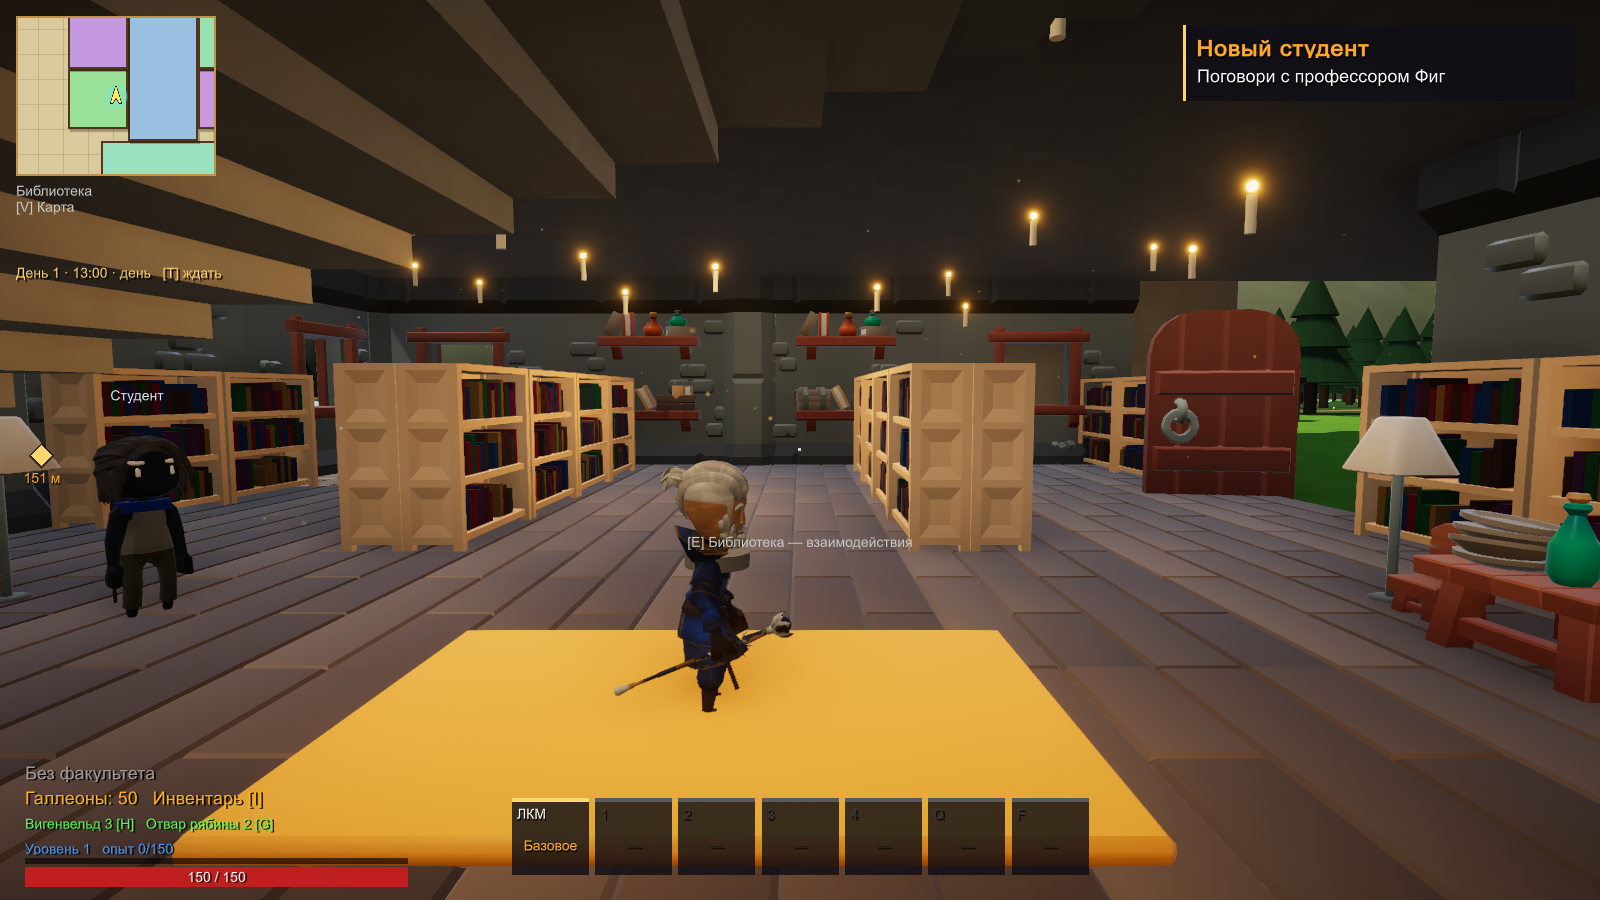
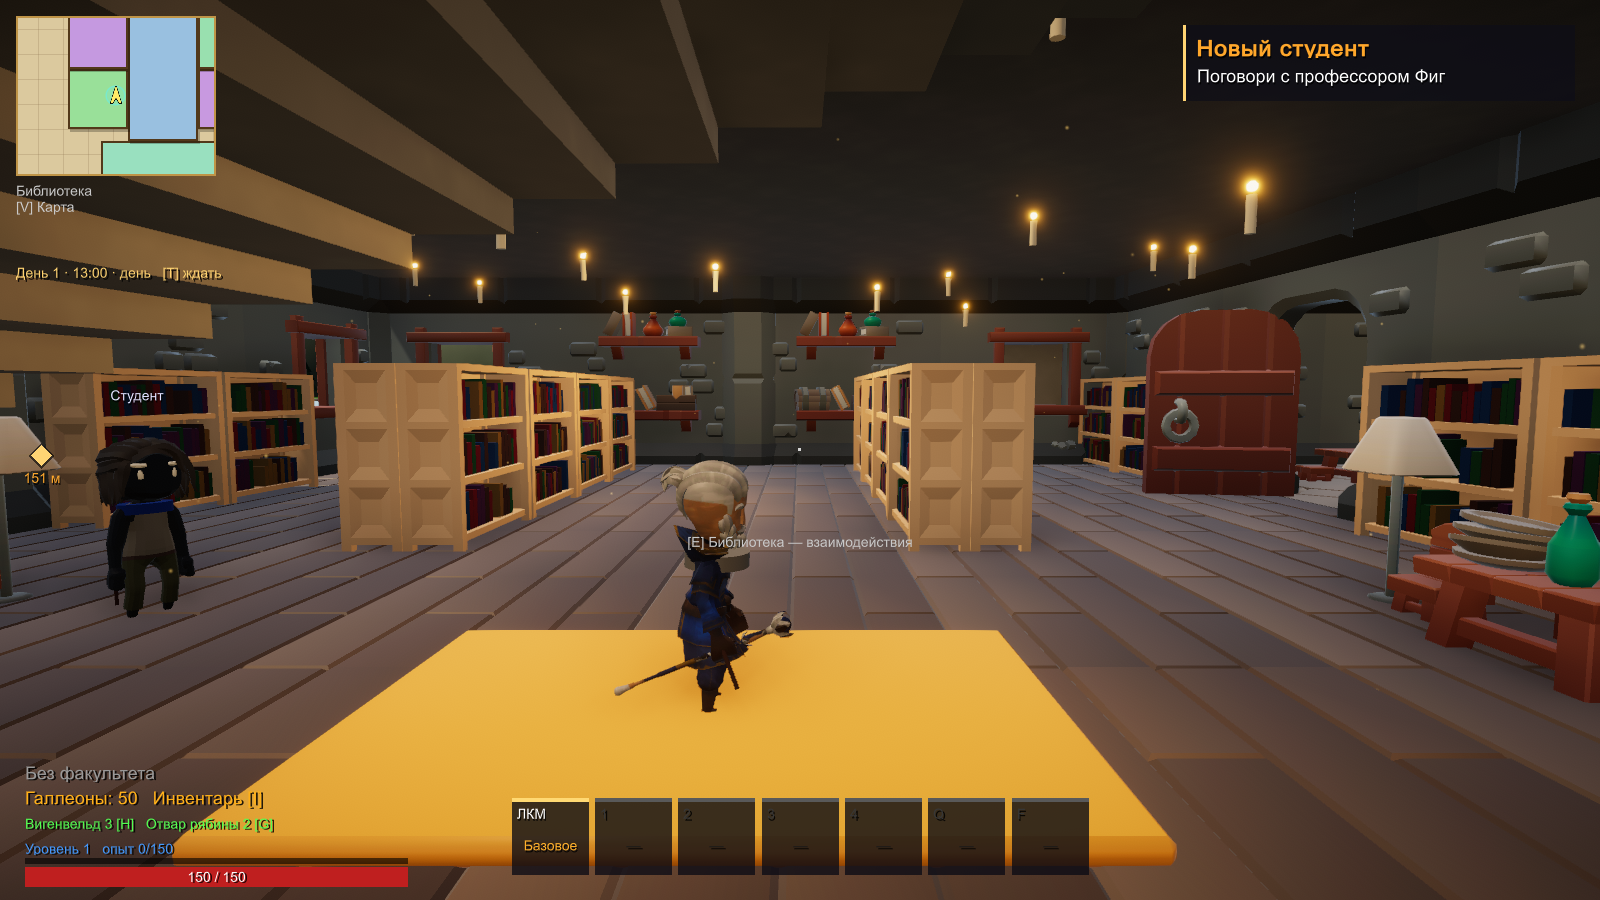
Keep Hogwarts rooms visible immediately on entry and camera turns

diff --git a/Assets/Scripts/World/CastleInteriorVisibility.cs b/Assets/Scripts/World/CastleInteriorVisibility.cs
@@ -1,40 +1,26 @@
 using System.Collections.Generic;
 using UnityEngine;
 
-// Мелкая мебель за стенами соседних комнат не участвует в рендеринге Большого зала.
+// Однократная настройка теней. Видимость комнат не зависит от положения камеры.
 public class CastleInteriorVisibility : MonoBehaviour
 {
     readonly List<Renderer> decorations = new();
-    float next;
     public int ActiveDecorations { get; private set; }
     void Start()
     {
-        var kit = GameObject.Find("CastleKit").transform;
+        var kitObject = GameObject.Find("CastleKit");
+        var kit = kitObject != null ? kitObject.transform : null;
         foreach (var renderer in FindObjectsByType<MeshRenderer>(FindObjectsSortMode.None))
         {
             var b = renderer.bounds;
-            if (!renderer.transform.IsChildOf(WorldBuilder.Root) && !renderer.transform.IsChildOf(kit)) continue;
+            if (!renderer.transform.IsChildOf(WorldBuilder.Root) && (kit == null || !renderer.transform.IsChildOf(kit))) continue;
             if (Mathf.Abs(b.center.x) > 42 || b.center.z < 29 || b.center.z > 105 || b.center.y > 13) continue;
             if (b.size.x > 8 || b.size.z > 8 || b.size.y > 6) continue;
             decorations.Add(renderer);
+            renderer.enabled = true;
             renderer.shadowCastingMode = UnityEngine.Rendering.ShadowCastingMode.Off;
         }
-    }
-    static int Room(Vector3 p) => p.x < -14 ? (p.z < 54 ? 1 : 2) : p.x > 14 ? (p.z < 54 ? 3 : 4) : p.z > 85 ? 5 : 0;
-    void LateUpdate()
-    {
-        if (Time.unscaledTime < next || Camera.main == null) return;
-        next = Time.unscaledTime + 0.15f;
-        var cam = Camera.main.transform.position;
-        int room = Room(cam); ActiveDecorations = 0;
-        foreach (var renderer in decorations)
-        {
-            if (renderer == null) continue;
-            var at = renderer.bounds.center;
-            bool show = (Room(at) == room && Mathf.Abs(at.y - cam.y) < 12) || (at - cam).sqrMagnitude < 18 * 18;
-            renderer.enabled = show;
-            if (show) ActiveDecorations++;
-        }
+        ActiveDecorations = decorations.Count;
     }
     void OnDisable() { foreach (var renderer in decorations) if (renderer != null) renderer.enabled = true; }
 }

diff --git a/Assets/Scripts/Debug/SmokeTest.RoomsVisible.cs b/Assets/Scripts/Debug/SmokeTest.RoomsVisible.cs
@@ -1,0 +1,40 @@
+using System.Collections;
+using System.Collections.Generic;
+using UnityEngine;
+
+public partial class SmokeTest
+{
+    IEnumerator RoomsVisibleTest()
+    {
+        SaveGame.TestPath = System.IO.Path.Combine(Application.dataPath, "../Build/Verification/rooms-visible-save.json");
+        GameState.Set(GameMode.Play);
+        DayNight.I.SetHour(13f); DayNight.I.raining = false;
+        var renderers = new List<MeshRenderer>();
+        renderers.AddRange(WorldBuilder.Root.GetComponentsInChildren<MeshRenderer>());
+        renderers.AddRange(GameObject.Find("CastleKit").GetComponentsInChildren<MeshRenderer>());
+        CheckLocation(renderers.Count > 100, "Static castle renderers collected");
+        foreach (var room in CastleLocations.All)
+        {
+            p.Teleport(room.spawn);
+            gm.camRig.SnapBehind();
+            // Проверяем уже первый отрисованный кадр, не ожидая таймера прорисовки.
+            for (int angle = 0; angle < 8; angle++)
+            {
+                gm.camRig.yaw = angle * 45f;
+                yield return new WaitForEndOfFrame();
+                int missing = 0;
+                foreach (var renderer in renderers) if (renderer != null && !renderer.enabled) missing++;
+                CheckLocation(missing == 0, $"Visible on entry/turn: {room.name}, angle={angle * 45}, hidden={missing}");
+            }
+        }
+        yield return HallWalkTest();
+        foreach (var room in CastleLocations.All)
+        {
+            if (room.name != "Библиотека" && room.name != "Гостиная" && room.name != "Кухня") continue;
+            Place(room.spawn, room.spawn + new Vector3(8, 1.5f, 8));
+            HUD.Clear();
+            yield return Shot("visible-room-" + CastleLocations.All.IndexOf(room));
+        }
+        Debug.Log("HM_ROOMS_RENDERERS " + renderers.Count);
+    }
+}

diff --git a/Assets/Scripts/Debug/SmokeTest.cs b/Assets/Scripts/Debug/SmokeTest.cs
@@ -88,6 +88,14 @@ public partial class SmokeTest : MonoBehaviour
         yield return Frames(30);
         yield return Shot("01_title");
         HUD.I.StartGame();
+        if (Array.IndexOf(Environment.GetCommandLineArgs(), "-hmRoomsVisible") >= 0)
+        {
+            yield return RoomsVisibleTest();
+            foreach (var note in notes) Debug.Log("HM_SMOKE_NOTE " + note);
+            Debug.Log($"HM_ROOMS_VISIBLE_RESULT errors={errors} rooms={CastleLocations.All.Count} angles=8");
+            Application.Quit(errors == 0 ? 0 : 1);
+            yield break;
+        }
         if (Array.IndexOf(Environment.GetCommandLineArgs(), "-hmBossPortraits") >= 0)
         {
             yield return BossPortraits();

diff --git a/README.md b/README.md
@@ -477,11 +477,19 @@ BuildGame.bat "D:\Unity\6000.0.77f1\Editor\Unity.exe"
 
 ### Большой зал и проходы в комнаты
 
-Камера плавно отдаляется после выхода из проёма; тонкие декоративные поверхности не мешают обзору. Под комнатами сделаны сплошные коллайдеры пола, декоративные тайлы подняты над землёй. Мелкая обстановка соседних комнат скрывается за пределами ближней зоны, у внутреннего освещения снижена стоимость, у свечей убраны лишние коллайдеры.
+Камера плавно отдаляется после выхода из проёма; тонкие декоративные поверхности не мешают обзору. Под комнатами сделаны сплошные коллайдеры пола, декоративные тайлы подняты над землёй. Обстановка всех комнат остаётся включённой постоянно: вход и поворот камеры не запускают отложенную прорисовку. У внутреннего освещения снижена стоимость, у свечей убраны лишние коллайдеры; тени мелкого декора отключаются один раз при запуске.
 
 | Большой зал | Вход в библиотеку |
 | --- | --- |
 | ![Большой зал после оптимизации](docs/screenshots/great-hall-current.png) | ![Проход в библиотеку](docs/screenshots/library-doorway-current.png) |
+
+Проверка видимости: во всех 22 зонах обстановка остаётся включённой на первом кадре входа и при восьми поворотах камеры. В этом прогоне Большой зал показал 56,4 FPS при 1600×900 на тестовом компьютере.
+
+| Библиотека без исчезающей обстановки | Гостиная |
+| --- | --- |
+| ![Видимая обстановка библиотеки](docs/screenshots/room-visible-library.png) | ![Видимая обстановка гостиной](docs/screenshots/room-visible-common.png) |
+
+[Кухня после исправления видимости](docs/screenshots/room-visible-kitchen.png)
 ### Окрестности
 
 В окрестностях есть:

diff --git a/docs/verification.md b/docs/verification.md
@@ -106,3 +106,16 @@ HM_MAPS_RESULT errors=0 views=10
 Сняты восемь отдельных кадров четырёх боссов: обычный облик крупным планом и фазовый щит. Все восемь изображений просмотрены. README использует новые файлы `chapter-*-boss-portrait.png`; старые файлы `chapter-*-boss.png` также заменены, чтобы прежние ссылки показывали свежие кадры. К каждому портрету добавлена ссылка на щит.
 
 Результат захвата: `HM_BOSS_PORTRAITS_RESULT errors=0 bosses=4 views=8`. Это проверка захвата кадров, а не повторное прохождение кампании.
+
+## Исправление исчезающей обстановки — 16 октября 2026
+
+Причина: `CastleInteriorVisibility` отключал мелкие статические объекты по условному номеру комнаты камеры и радиусу 18 м, обновляя состояние каждые 0,15 с. Удалены проверка комнаты, радиус, таймер и весь покадровый переключатель `Renderer.enabled`. Обстановка всегда включена; настройка теней остаётся однократной.
+
+Новый прогон `-hmSmoke -hmRoomsVisible` проверил 6254 статических объекта на первом кадре после входа и при восьми направлениях камеры во всех 22 зонах. Отключённых объектов не найдено. Повторно проверены четыре прохода Большого зала: перепад 0,082 м, шаг камеры до 0,076 м. Большой зал: 56,4 FPS, 1600×900 на тестовом компьютере. Библиотека, гостиная и кухня просмотрены на скриншотах.
+
+```text
+HM_ROOMS_RENDERERS 6254
+HM_ROOMS_VISIBLE_RESULT errors=0 rooms=22 angles=8
+```
+
+Сборка успешна. Полное прохождение кампании для этого исправления не повторялось.
